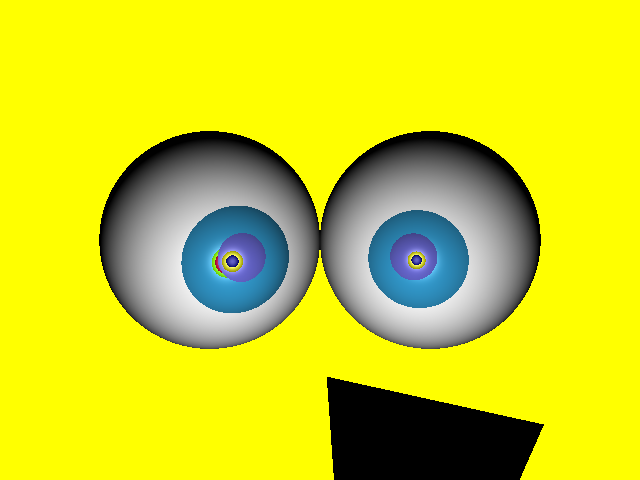
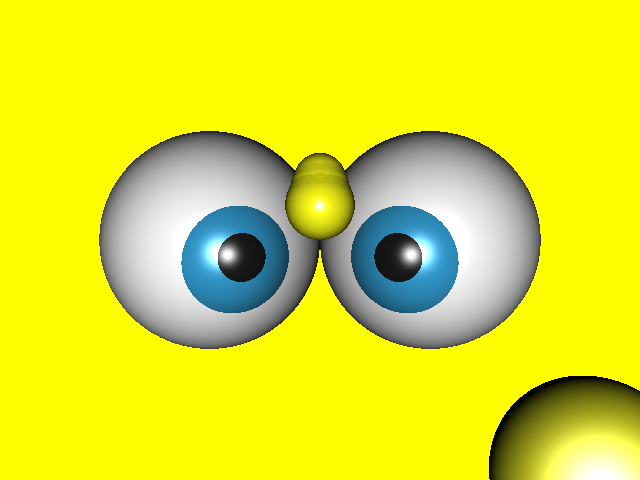
draw modified

Changed region(s): [[0.1562, 0.25, 0.8438, 0.7188], [0.5, 0.7812, 1.0, 1.0]]

diff --git a/raytracer.rb b/raytracer.rb
@@ -98,7 +98,7 @@ class RayTracer < Renderer
     sphere6_material = Material.new(s6_diffuse, s6_reflection, s6_specular, s6_power)      
     #finOjoDerecho
       
-      
+    #intento de ceja  
     # Triangle 1 values
     a = Vector.new(550,350,0)
     b = Vector.new(0,300,0)
@@ -108,16 +108,170 @@ class RayTracer < Renderer
     t_reflection = 0.5
     t_power = 60
     t_material = Material.new(t_diffuse, t_reflection, t_specular, t_power)    
+    
+    #nariz
+    position7 = Vector.new(0,-70,150)
+    radius7 = 70
+    s7_diffuse = Rgb.new(1.0,1.0,0.1)
+    s7_specular = Rgb.new(1.0,1.0,1.0)
+    s7_reflection = 0.5
+    s7_power = 100
+    sphere7_material = Material.new(s7_diffuse, s7_reflection, s7_specular, s7_power)
+    
+    position8 = Vector.new(0,-73,149)
+    radius8 = 69
+    s8_diffuse = Rgb.new(1.0,1.0,0.1)
+    s8_specular = Rgb.new(1.0,1.0,1.0)
+    s8_reflection = 0.5
+    s8_power = 100
+    sphere8_material = Material.new(s8_diffuse, s8_reflection, s8_specular, s8_power)
       
-    # Triangle 2 values
-    a2 = Vector.new(500,412,0)
-    b2 = Vector.new(15,305,0)
-    c2 = Vector.new(20,305,1160)    
-    t2_diffuse = Rgb.new(0.142, 0.59, 0.24)
-    t2_specular = Rgb.new(1.0,1.0,1.0)
-    t2_reflection = 0.5
-    t2_power = 60
-    t2_material = Material.new(t2_diffuse, t2_reflection, t2_specular, t2_power)      
+    position9 = Vector.new(0,-76,148)
+    radius9 = 68
+    s9_diffuse = Rgb.new(1.0,1.0,0.1)
+    s9_specular = Rgb.new(1.0,1.0,1.0)
+    s9_reflection = 0.5
+    s9_power = 100
+    sphere9_material = Material.new(s9_diffuse, s9_reflection, s9_specular, s9_power)
+      
+    position10 = Vector.new(0,-79,147)
+    radius10 = 67
+    s10_diffuse = Rgb.new(1.0,1.0,0.1)
+    s10_specular = Rgb.new(1.0,1.0,1.0)
+    s10_reflection = 0.5
+    s10_power = 100
+    sphere10_material = Material.new(s10_diffuse, s10_reflection, s10_specular, s10_power)
+      
+    position11 = Vector.new(0,-82,146)
+    radius11 = 66
+    s11_diffuse = Rgb.new(1.0,1.0,0.1)
+    s11_specular = Rgb.new(1.0,1.0,1.0)
+    s11_reflection = 0.5
+    s11_power = 100
+    sphere11_material = Material.new(s11_diffuse, s11_reflection, s11_specular, s11_power)
+      
+    position12 = Vector.new(0,-85,145)
+    radius12 = 65
+    s12_diffuse = Rgb.new(1.0,1.0,0.1)
+    s12_specular = Rgb.new(1.0,1.0,1.0)
+    s12_reflection = 0.5
+    s12_power = 100
+    sphere12_material = Material.new(s12_diffuse, s12_reflection, s12_specular, s12_power)
+      
+    position13 = Vector.new(0,-88,144)
+    radius13 = 64
+    s13_diffuse = Rgb.new(1.0,1.0,0.1)
+    s13_specular = Rgb.new(1.0,1.0,1.0)
+    s13_reflection = 0.5
+    s13_power = 100
+    sphere13_material = Material.new(s13_diffuse, s13_reflection, s13_specular, s13_power)
+      
+    position14 = Vector.new(0,-91,143)
+    radius14 = 63
+    s14_diffuse = Rgb.new(1.0,1.0,0.1)
+    s14_specular = Rgb.new(1.0,1.0,1.0)
+    s14_reflection = 0.5
+    s14_power = 100
+    sphere14_material = Material.new(s14_diffuse, s14_reflection, s14_specular, s14_power)
+      
+    position15 = Vector.new(0,-94,142)
+    radius15 = 62
+    s15_diffuse = Rgb.new(1.0,1.0,0.1)
+    s15_specular = Rgb.new(1.0,1.0,1.0)
+    s15_reflection = 0.5
+    s15_power = 100
+    sphere15_material = Material.new(s15_diffuse, s15_reflection, s15_specular, s15_power)
+      
+    position16 = Vector.new(0,-97,141)
+    radius16 = 61
+    s16_diffuse = Rgb.new(1.0,1.0,0.1)
+    s16_specular = Rgb.new(1.0,1.0,1.0)
+    s16_reflection = 0.5
+    s16_power = 100
+    sphere16_material = Material.new(s16_diffuse, s16_reflection, s16_specular, s16_power)
+      
+    position17 = Vector.new(0,-100,140)
+    radius17 = 60
+    s17_diffuse = Rgb.new(1.0,1.0,0.1)
+    s17_specular = Rgb.new(1.0,1.0,1.0)
+    s17_reflection = 0.5
+    s17_power = 100
+    sphere17_material = Material.new(s17_diffuse, s17_reflection, s17_specular, s17_power)
+      
+    position18 = Vector.new(0,-103,139)
+    radius18 = 60
+    s18_diffuse = Rgb.new(1.0,1.0,0.1)
+    s18_specular = Rgb.new(1.0,1.0,1.0)
+    s18_reflection = 0.5
+    s18_power = 100
+    sphere18_material = Material.new(s18_diffuse, s18_reflection, s18_specular, s18_power)
+    
+    position19 = Vector.new(0,-106,138)
+    radius19 = 59
+    s19_diffuse = Rgb.new(1.0,1.0,0.1)
+    s19_specular = Rgb.new(1.0,1.0,1.0)
+    s19_reflection = 0.5
+    s19_power = 100
+    sphere19_material = Material.new(s19_diffuse, s19_reflection, s19_specular, s19_power)
+      
+    position20 = Vector.new(0,-109,137)
+    radius20 = 58
+    s20_diffuse = Rgb.new(1.0,1.0,0.1)
+    s20_specular = Rgb.new(1.0,1.0,1.0)
+    s20_reflection = 0.5
+    s20_power = 100
+    sphere20_material = Material.new(s20_diffuse, s20_reflection, s20_specular, s20_power)
+      
+    position21 = Vector.new(0,-112,136)
+    radius21 = 57
+    s21_diffuse = Rgb.new(1.0,1.0,0.1)
+    s21_specular = Rgb.new(1.0,1.0,1.0)
+    s21_reflection = 0.5
+    s21_power = 100
+    sphere21_material = Material.new(s21_diffuse, s21_reflection, s21_specular, s21_power)
+      
+    position22 = Vector.new(0,-115,135)
+    radius22 = 56
+    s22_diffuse = Rgb.new(1.0,1.0,0.1)
+    s22_specular = Rgb.new(1.0,1.0,1.0)
+    s22_reflection = 0.5
+    s22_power = 100
+    sphere22_material = Material.new(s22_diffuse, s22_reflection, s22_specular, s22_power)
+      
+    position23 = Vector.new(0,-118,134)
+    radius23 = 55
+    s23_diffuse = Rgb.new(1.0,1.0,0.1)
+    s23_specular = Rgb.new(1.0,1.0,1.0)
+    s23_reflection = 0.5
+    s23_power = 100
+    sphere23_material = Material.new(s23_diffuse, s23_reflection, s23_specular, s23_power)
+      
+    position24 = Vector.new(0,-121,133)
+    radius24 = 54
+    s24_diffuse = Rgb.new(1.0,1.0,0.1)
+    s24_specular = Rgb.new(1.0,1.0,1.0)
+    s24_reflection = 0.5
+    s24_power = 100
+    sphere24_material = Material.new(s24_diffuse, s24_reflection, s24_specular, s24_power)
+      
+    position25 = Vector.new(0,-124,132)
+    radius25 = 53
+    s25_diffuse = Rgb.new(1.0,1.0,0.1)
+    s25_specular = Rgb.new(1.0,1.0,1.0)
+    s25_reflection = 0.5
+    s25_power = 100
+    sphere25_material = Material.new(s25_diffuse, s25_reflection, s25_specular, s25_power)
+    #finNariz
+      
+    #lunar
+    #lunar_position = Vector.new(550,480,132)
+    #lunar_radius = 200
+    #lunar_s_diffuse = Rgb.new(0.984,0.984,0.145)
+    #lunar_s_specular = Rgb.new(1.0,1.0,1.0)
+    #lunar_s_reflection = 0.5
+    #lunar_s_power = 10
+    #lunar_sphere_material = Material.new(lunar_s_diffuse, lunar_s_reflection, lunar_s_specular, lunar_s_power)            
+    #fin lunar
 
     @sphere = Sphere.new(position, radius, sphere_material)
     @sphere2 = Sphere.new(position2, radius2, sphere2_material)
@@ -125,10 +279,29 @@ class RayTracer < Renderer
     @sphere4 = Sphere.new(position4, radius4, sphere4_material)
     @sphere5 = Sphere.new(position5, radius5, sphere5_material)
     @sphere6 = Sphere.new(position6, radius6, sphere6_material)
-    @triangle = Triangle.new(a, b, c, t_material )
-    @triangle2 = Triangle.new(a2, b2, c2, t2_material)
+    @triangle = Triangle.new(a, b, c, t_material )    
+    @sphere7 = Sphere.new(position7, radius7, sphere7_material)
+    @sphere8 = Sphere.new(position8, radius8, sphere8_material)
+    @sphere9 = Sphere.new(position9, radius9, sphere9_material)
+    @sphere10 = Sphere.new(position10, radius10, sphere10_material)
+    @sphere11 = Sphere.new(position11, radius11, sphere11_material)
+    @sphere12 = Sphere.new(position12, radius12, sphere12_material)
+    @sphere13 = Sphere.new(position13, radius13, sphere13_material)
+    @sphere14 = Sphere.new(position14, radius14, sphere14_material)
+    @sphere15 = Sphere.new(position15, radius15, sphere15_material)
+    @sphere16 = Sphere.new(position16, radius16, sphere16_material)
+    @sphere17 = Sphere.new(position17, radius17, sphere17_material)
+    @sphere18 = Sphere.new(position18, radius18, sphere18_material)
+    @sphere19 = Sphere.new(position19, radius19, sphere19_material)
+    @sphere20 = Sphere.new(position20, radius20, sphere20_material)
+    @sphere21 = Sphere.new(position21, radius21, sphere21_material)
+    @sphere22 = Sphere.new(position22, radius22, sphere22_material)
+    @sphere23 = Sphere.new(position23, radius23, sphere23_material)
+    @sphere24 = Sphere.new(position24, radius24, sphere24_material)
+    @sphere25 = Sphere.new(position25, radius25, sphere25_material)
+    #@lunar = Sphere.new(lunar_position, lunar_radius, lunar_sphere_material)
     @objects=[]
-    @objects << @sphere << @triangle << @sphere2 << @triangle2 << @sphere3 << @sphere4 << @sphere5 << @sphere6
+    @objects << @sphere << @triangle << @sphere2 << @sphere3 << @sphere4 << @sphere5 << @sphere6 << @sphere7 << @sphere8 << @sphere9  << @sphere10 << @sphere11 << @sphere12 << @sphere13 << @sphere14 << @sphere15 << @sphere16 << @sphere17 << @sphere18 << @sphere19 << @sphere20 << @sphere21 << @sphere22 << @sphere23 << @sphere24 << @sphere25 #<< @lunar
    
   end
 

diff --git a/rgb.rb b/rgb.rb
@@ -7,10 +7,20 @@ class Rgb
     @b = b.to_f
   end
     
+  def validate_color(color)
+    if(color>1)
+        return 1;
+    end
+    if (color<0)
+        return 0;
+    end
+    return color;
+  end
+    
   def color_product(color)
-      @r = @r * color.r
-      @g = @g * color.g
-      @b = @b * color.b
+      @r = validate_color(@r * color.r)      
+      @g = validate_color(@g * color.g)
+      @b = validate_color(@b * color.b)
   end
   
   def num_product(num)
@@ -18,23 +28,22 @@ class Rgb
   end
     
   def plus_color (a_color)
-    Rgb.new(@r+a_color.r, @g+a_color.g, @b+a_color.b)
+    Rgb.new(validate_color(@r+a_color.r), validate_color(@g+a_color.g), validate_color(@b+a_color.b))
   end
 
   def minus_color (a_color)
-    Rgb.new(@r-a_color.r, @g-a_color.g, @b-a_color.b)
+    Rgb.new(validate_color(@r-a_color.r), validate_color(@g-a_color.g), validate_color(@b-a_color.b))
   end
 
   def multiply_color (a_color)
-    red = @r*a_color.r
-    green = @g*a_color.g
-    blue = @b*a_color.b
-
-    Rgb.new(red,green,blue)
+    red = @r*a_color.r      
+    green = @g*a_color.g      
+    blue = @b*a_color.b      
+    Rgb.new(validate_color(red),validate_color(green),validate_color(blue))
   end
 
   def scalar_color (a_number)
     number_as_float = a_number.to_f
-    Rgb.new(@r*number_as_float, @g*number_as_float, @b*number_as_float)
+    Rgb.new(validate_color(@r*number_as_float),validate_color( @g*number_as_float), validate_color(@b*number_as_float))
   end
 end
